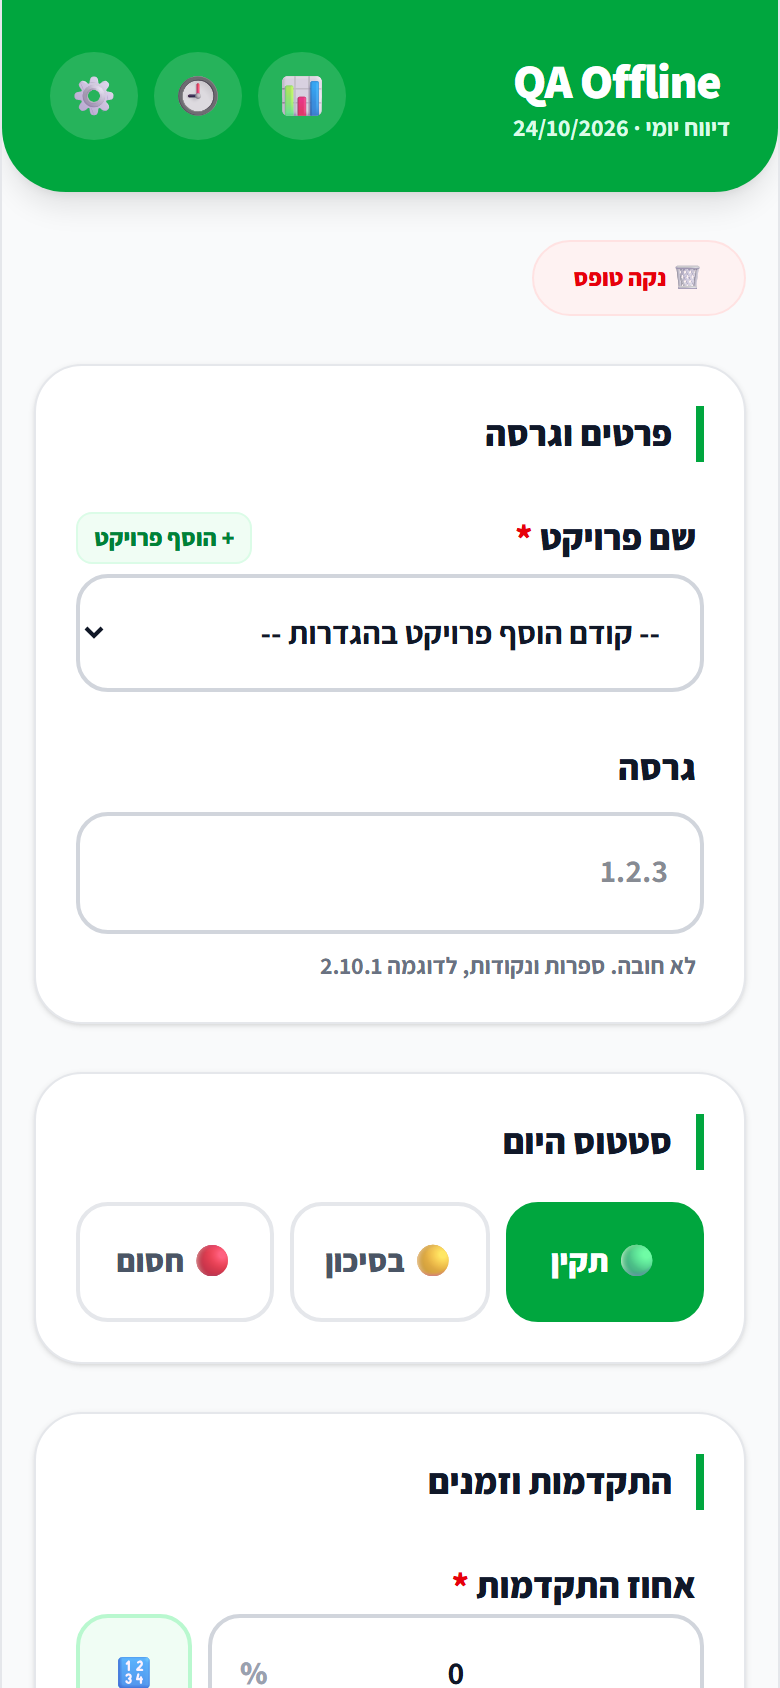
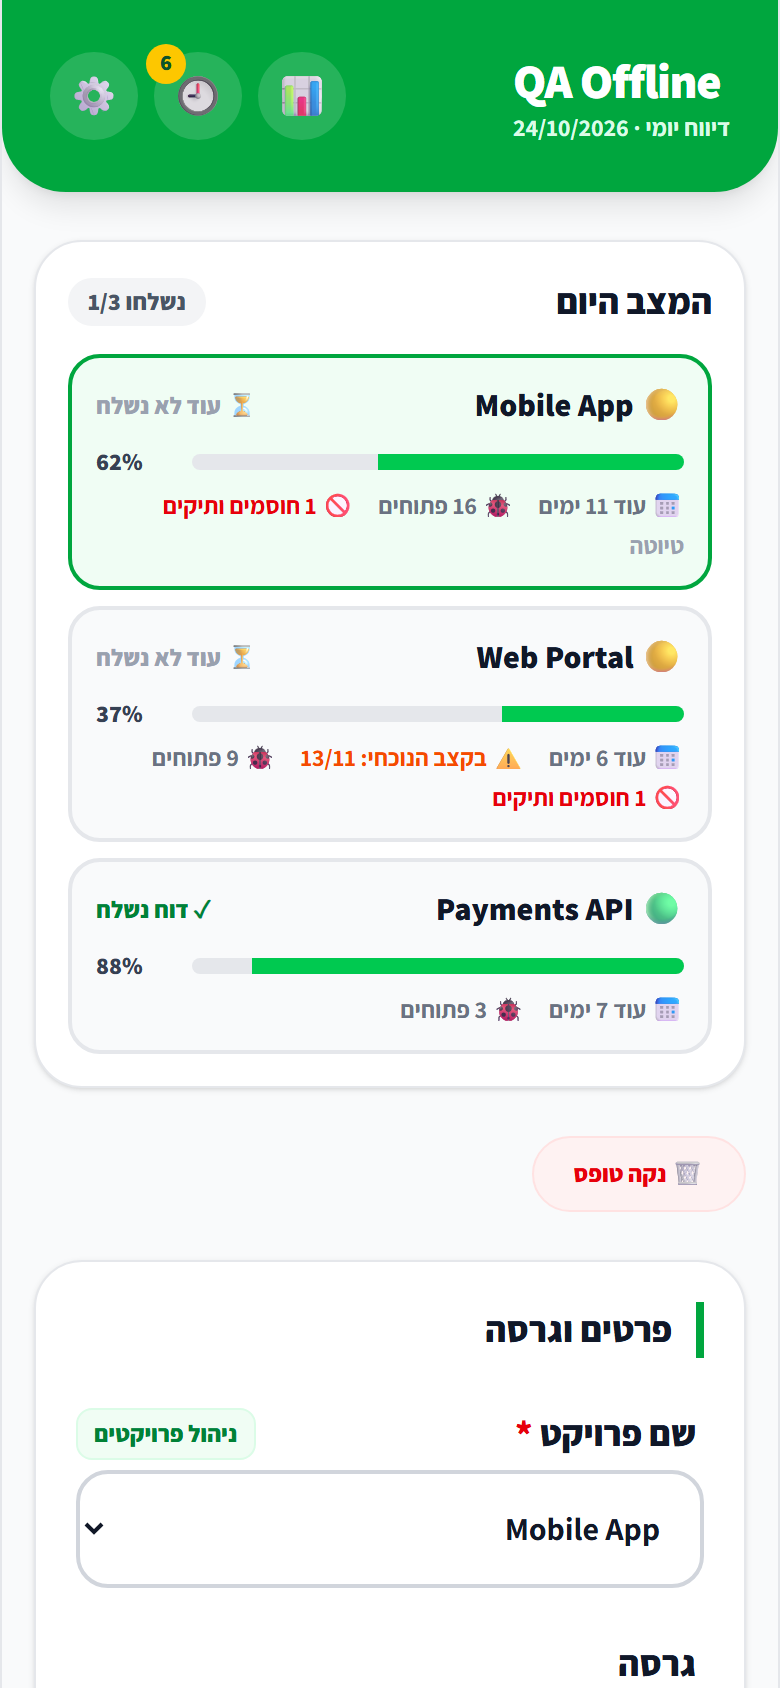
Repo docs and automation: license, changelog, security, architecture, CI
- MIT LICENSE, CHANGELOG.md (v1.0-v1.3), SECURITY.md (privacy model,
  private vulnerability reporting), docs/ARCHITECTURE.md
- GitHub Actions CI: type-check, tests and build on push/PR
- Dependabot for npm (grouped) and GitHub Actions
- Issue forms (bug report, feature request) and PR template
- README: badges, download, documentation, contributing, license
- docs/social-preview.png for the repository's social preview
- Retook screenshots: 01-today had been captured without demo data

diff --git a/docs/ARCHITECTURE.md b/docs/ARCHITECTURE.md
@@ -1,0 +1,83 @@
+# Architecture
+
+QA Daily Offline is a single-page React app packaged as an Android app with Capacitor. There is no backend: every feature is computed on the device from two things, **the current form** and **the history of sent reports**.
+
+```
+            ┌────────────── App.tsx (state + screens) ───────────────┐
+ form ─────▶│ FormData (draft)        combined sections (multi-project)│
+            │        │                                                │
+            │        ▼                                                │
+            │ projectContext.sectionContext(history, form)            │
+            │   ├─ daily.toReportItem      → numbers for this report  │
+            │   ├─ daily.computeChange     → "since yesterday"        │
+            │   ├─ daily.blockerAges       → "(day N)"                │
+            │   └─ insights.forecastCompletion → pace forecast        │
+            │        │                                                │
+            │        ▼                                                │
+            │ offlineReportService.generateOfflineReport(sections,    │
+            │        { language, extras })  → report text (HE / EN)   │
+            └────────────────────────┬────────────────────────────────┘
+                                     │ copy / share / WhatsApp
+                                     ▼
+                     history entry { text, items: ReportItem[] }
+                                     │
+                                     ▼
+                       storage (localStorage, validated on load)
+```
+
+## Data model (`types.ts`)
+
+| Type | Purpose |
+|---|---|
+| `FormData` | What the user types. All values are strings, exactly as in the inputs. |
+| `ReportItem` | Structured numbers for one project in one sent report (progress, bugs, open bugs, tests, blockers, target date). |
+| `HistoryEntry` | One sent report: the final text plus a `ReportItem` per project. Entries from before v1.2 have no items and are ignored by charts. |
+| `AppSettings` | Projects, templates, theme, report language, reminder. |
+
+## Key decisions
+
+### Offline-first, no permission
+The app never needs the network, so the `INTERNET` permission was removed. This turns "we don't send your data" from a promise into something the OS enforces, and keeps the attack surface minimal.
+
+### History is the source of truth
+Everything that changes over time (charts, forecast, "since yesterday", blocker age, open-bug balance, the today dashboard) is **derived** from history rather than stored separately. `days.projectDays` reduces history to *the latest report per project per day*, so re-sending a report never double-counts.
+
+### Defensive storage
+`storage.ts` treats `localStorage` as untrusted: every value is parsed in `try/catch`, type-checked field by field, and merged into defaults. Old drafts gain new fields automatically, unknown fields are dropped, and corrupt data falls back to defaults instead of crashing.
+
+### Pure, testable logic
+All calculations live in `services/` as pure functions that take `now` as a parameter. The UI only wires them together. This is what makes the 42 Vitest tests possible without a browser.
+
+## The calculations
+
+**Pace forecast** (`insights.forecastCompletion`): a least-squares line through the last 14 report days (today's unsent value replaces today's point). Completion date = last day + ⌈(100 − progress) / slope⌉. Returns `stalled` when the slope is under 0.05%/day and `not-enough-data` with fewer than two distinct days.
+
+**Since yesterday** (`daily.computeChange`): compares the current report with the last report from an *earlier day*. The new-bug average uses up to 7 previous report days and is shown only with at least two.
+
+**Blocker age** (`daily.blockerAges`): blockers are split per line (or `;`), normalised (case and whitespace), and counted back through consecutive report days that mention them. A gap where the blocker is missing restarts the count.
+
+**Open bugs** (`daily.openBugsOf`): `manual value` if given, otherwise `previous open + new − closed` (never below 0). The starting point is the last report before today, so sending twice in one day gives the same result.
+
+**Test execution** (`daily.testStats`): executed = passed + failed; run % = executed / planned; pass rate = passed / executed.
+
+## Reports and languages
+
+`reportText.ts` holds every fixed string in Hebrew and English, including the sentence builders for change lines and test summaries. The app UI stays Hebrew; only the generated text changes language. User-typed content is never translated.
+
+## Android specifics
+
+- `@capacitor/app`: hardware back button closes the top layer; `appStateChange` re-plans reminders when the app resumes.
+- `@capacitor/share`: native share sheet.
+- `@capacitor/local-notifications`: reminders are scheduled one per chosen weekday for the next 14 days; today's is skipped once a report was sent, so the reminder only fires when it's needed.
+- Edge-to-edge: safe-area padding via `env(safe-area-inset-*)` with Capacitor's CSS-variable fallback.
+
+## Testing
+
+`npm test` runs Vitest. Suites:
+
+| File | Covers |
+|---|---|
+| `report.test.ts` | Report text in Hebrew and English, multi-project, deadlines, field helpers |
+| `storage.test.ts` | Defaults, corrupt JSON, migrations from older versions, validation |
+| `insights.test.ts` | Daily series, forecast cases, weekly summary |
+| `daily.test.ts` | Open-bug balance, test stats, blocker age, change since yesterday, today dashboard |

diff --git a/CHANGELOG.md b/CHANGELOG.md
@@ -1,0 +1,66 @@
+# Changelog
+
+All notable changes to QA Daily Offline. Versions follow `versionName` in `android/app/build.gradle`.
+
+## [1.3] - 2026-10-24
+
+### Added
+- **Today dashboard** at the top of the app: one card per project with status, progress, days to the target date, pace forecast, open bugs, long-running blockers, and whether today's report was sent. Tapping a card switches to that project.
+- **Since yesterday** line in the form and the report: progress delta, new bugs vs. the 7-report average, open bugs, tests run, pass rate, status change, new and resolved blockers.
+- **Blocker age**: one blocker per line, shown as "(day N)" in the report and highlighted in red from day 3.
+- **Test execution**: planned / passed / failed for the current cycle, with run percentage and pass rate.
+- **Bug balance**: new and closed/verified bugs; open bugs are calculated from the previous report, with a manual override.
+- **Open bugs chart** in the insights view; the weekly summary now includes closed bugs, open bugs and test execution.
+- English README with screenshots; the Hebrew README moved to `README.he.md`.
+
+### Changed
+- Blockers and test counts now carry over with the project until they change.
+- The bugs line in the report now reads "N new · N closed · N open".
+
+### Fixed
+- Selecting a project from the dashboard reloads its blockers instead of treating them as resolved.
+- Dark mode: progress percentages were hard to read.
+- Chart date labels were clipped in right-to-left layout.
+
+## [1.2] - 2026-10-24
+
+### Added
+- **Daily status** (on track / at risk / blocked) at the top of every report.
+- **Quick templates** for "checked areas", editable in settings.
+- **Multi-project report**: several projects in one message, overall status set by the worst one.
+- **Per-project memory**: version, progress, target date and open issues reload from the project's last report.
+- **Insights view**: progress chart, pace forecast with a late-deadline warning (also in the form and the report), and a weekly summary to share.
+- **Daily reminder** via local notifications, skipped once today's report was sent.
+- **Dark mode** (system / light / dark).
+- **Report language**: Hebrew or English.
+- **Automated tests** with Vitest.
+
+## [1.1] - 2026-10-23
+
+### Added
+- **Report history**: every report that is sent or copied is saved and can be re-shared.
+- **Share sheet** to any app, and WhatsApp that falls back to the website when the app is missing.
+- **Start new report** keeps project, version, progress, target date and open issues.
+- Deadline countdown and progress bar.
+- New clipboard logo and green splash screen.
+
+### Changed
+- Removed the `INTERNET` permission: Android now blocks all network access for the app.
+
+### Fixed
+- Android back button closed the app instead of the open dialog.
+- Versions such as `2.10.1` could not be typed.
+- Corrupt saved data crashed the app on start.
+- A deleted project stayed selected; duplicate projects could be added.
+- Clipboard copy now has a fallback and reports failures.
+- Manual edits to the report survive going back to the form.
+- Content no longer slides under the status bar on Android 15+.
+
+## [1.0] - 2026-10-22
+
+- First signed Android release: daily QA form, WhatsApp-ready report, fully offline.
+
+[1.3]: https://github.com/binyamin78/qa-daily-offline/releases/tag/v1.3
+[1.2]: https://github.com/binyamin78/qa-daily-offline/releases/tag/v1.2
+[1.1]: https://github.com/binyamin78/qa-daily-offline/releases/tag/v1.1
+[1.0]: https://github.com/binyamin78/qa-daily-offline/releases/tag/v1.0

diff --git a/README.md b/README.md
@@ -6,6 +6,15 @@
 
 # QA Daily Offline
 
+<p align="center">
+  <a href="https://github.com/binyamin78/qa-daily-offline/actions/workflows/ci.yml"><img src="https://github.com/binyamin78/qa-daily-offline/actions/workflows/ci.yml/badge.svg" alt="CI"></a>
+  <a href="https://github.com/binyamin78/qa-daily-offline/releases/latest"><img src="https://img.shields.io/badge/version-1.3-16a34a" alt="Version 1.3"></a>
+  <img src="https://img.shields.io/badge/Android-7.0%2B-3ddc84?logo=android&logoColor=white" alt="Android 7.0+">
+  <img src="https://img.shields.io/badge/internet%20permission-none-16a34a" alt="No internet permission">
+  <img src="https://img.shields.io/badge/tests-42-16a34a?logo=vitest&logoColor=white" alt="42 tests">
+  <a href="LICENSE"><img src="https://img.shields.io/badge/license-MIT-blue" alt="MIT license"></a>
+</p>
+
 **A fully offline daily QA reporting app for Android.** Fill in a short form, and the app writes a clean, WhatsApp-ready status report, tracks every project day by day, and shows the team where things stand: progress, forecast, open bugs, test execution and blockers.
 
 No account, no server, no internet permission: everything stays on the device.
@@ -74,6 +83,19 @@ No account, no server, no internet permission: everything stays on the device.
 - The only extra permissions are for the optional daily reminder (notifications and exact alarms).
 
 You can verify this on any build with `aapt2 dump permissions app-release.apk`.
+
+## Download
+
+Get the latest signed APK from [Releases](https://github.com/binyamin78/qa-daily-offline/releases/latest), open it on your phone and allow installing from that source. See [CHANGELOG.md](CHANGELOG.md) for what's new in each version.
+
+## Documentation
+
+| | |
+|---|---|
+| [CHANGELOG.md](CHANGELOG.md) | What changed in every version |
+| [docs/ARCHITECTURE.md](docs/ARCHITECTURE.md) | How the app is built, the data model and how the forecast, "since yesterday", blocker age and bug balance are calculated |
+| [SECURITY.md](SECURITY.md) | Privacy model, permissions and how to report a vulnerability |
+| [Roadmap](https://github.com/binyamin78/qa-daily-offline/milestones) | Planned features, tracked as issues |
 
 ## Tech stack
 
@@ -149,3 +171,11 @@ services/
 tests/                   Vitest suites
 android/                 Capacitor Android project
 ```
+
+## Contributing
+
+Bug reports and ideas are welcome: use the issue templates (bug report / feature request). Pull requests run type-checking, the test suite and a build in CI.
+
+## License
+
+[MIT](LICENSE)

diff --git a/SECURITY.md b/SECURITY.md
@@ -1,0 +1,20 @@
+# Security and privacy
+
+## How the app handles data
+
+- **No network access.** The Android app does not request the `INTERNET` permission, so the operating system blocks every network connection. You can confirm this on any APK:
+  ```bash
+  aapt2 dump permissions app-release.apk
+  ```
+- **Data stays on the device.** Settings, the current draft and report history are stored in the app's private `localStorage` and are removed when the app is uninstalled.
+- **Sending is always your choice.** WhatsApp, *Share* and *Copy* hand the report text to the app you pick. QA Daily Offline never sends anything by itself.
+- **Permissions in use**: notifications, exact alarms and boot-completed, all only for the optional daily reminder.
+- **No analytics, ads or third-party SDKs.**
+
+## Supported versions
+
+Only the latest release receives fixes. Please update before reporting an issue.
+
+## Reporting a vulnerability
+
+Please do **not** open a public issue for security problems. Use GitHub's private vulnerability reporting instead: **Security → Report a vulnerability** in this repository. Include the app version, Android version and steps to reproduce. You can expect a first response within a few days.

diff --git a/.github/pull_request_template.md b/.github/pull_request_template.md
@@ -1,0 +1,11 @@
+## What changed
+
+## Why
+
+## How it was tested
+- [ ] `npm test` passes
+- [ ] `npx tsc --noEmit` passes
+- [ ] Checked in the browser (mobile size) and, for Android changes, on a device
+- [ ] Hebrew and English reports still look right
+
+## Screenshots
